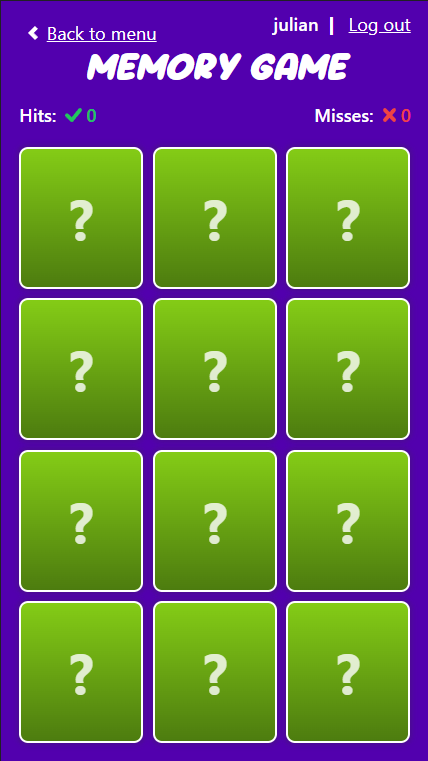
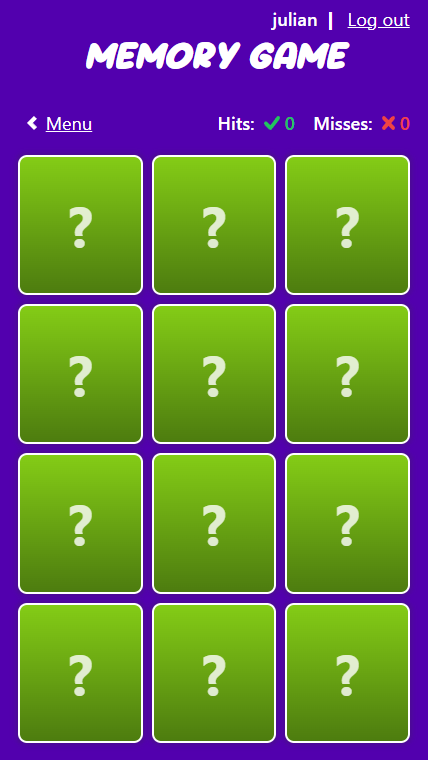
fix: Fixed navbar styles

diff --git a/src/components/game-board/GameBoard.tsx b/src/components/game-board/GameBoard.tsx
@@ -6,7 +6,6 @@ import { AnimalsResponse } from '../../models/apiAnimal';
 import { apiAnimalsToGameAnimals } from '../../adapters/apiAnimalsToGameAnimals';
 import { shuffleArray } from '../../utils/shuffleArray';
 import { DIFFICULTY } from '../../constants/gameDifficulty';
-import LeftArrowIcon from '../../shared/icons/LeftArrowIcon';
 import HitsCount from './components/HitsCount';
 import MissesCount from './components/MissesCount';
 import Countdown from '../../shared/display/countdown/Countdown';
@@ -15,6 +14,7 @@ import {
   ANIMALS_BY_DIFFICULTY,
   GAMEBOARD_GRID_BY_DIFFICULTY,
 } from './models/gameBoard.model';
+import LeftArrowIcon from '../../shared/icons/LeftArrowIcon';
 
 const COPY_UUID_SUFFIX = '-copy';
 
@@ -111,18 +111,20 @@ const GameBoard: FC<Props> = ({ difficulty, handleBackToMenu }) => {
   return (
     <>
       {win && <CongratulationsMessage handleGoToMenu={handleBackToMenu} />}
-      <button
-        type="button"
-        className="absolute flex items-center text-white font-sans top-2 left-4 underline p-2"
-        title="Back to difficulty menu"
-        onClick={handleBackToMenu}
-      >
-        <LeftArrowIcon className="h-3 mr-2 fill-white" />
-        Back to menu
-      </button>
-      <div className="flex flex-row justify-between mb-4 text-white font-semibold">
-        <HitsCount hits={hits} />
-        <MissesCount misses={misses} />
+      <div className="flex gap-4 items-center justify-between">
+        <button
+          type="button"
+          className="flex items-center text-white font-sans underline p-2"
+          title="Back to difficulty menu"
+          onClick={handleBackToMenu}
+        >
+          <LeftArrowIcon className="h-3 mr-2 fill-white" />
+          Menu
+        </button>
+        <div className="flex gap-4 text-white font-semibold">
+          <HitsCount hits={hits} />
+          <MissesCount misses={misses} />
+        </div>
       </div>
       <div className={gridClasses}>
         <Countdown />

diff --git a/src/components/Nav.tsx b/src/components/Nav.tsx
@@ -6,25 +6,25 @@ const Nav = () => {
 
   return (
     <nav>
-      <h1 className="text-center mt-6 mb-2">
-        <PuffyText className="text-4xl !text-white">Memory game</PuffyText>
-      </h1>
-      {name && (
-        <div className="absolute top-0 right-0 bottom-0 h-max ">
-          <p className="font-medium font-sans text-white px-2">
+      <div className="flex items-center px-2 justify-end">
+        {name && (
+          <p className="font-medium font-sans text-white">
             {name}
             <span className="font-black ml-2 mr-1 sm:ml-4 sm:mr-2">|</span>
             <button
               type="button"
               onClick={logout}
-              className="underline font-normal px-2 py-2 rounded hover:bg-white/10"
+              className="underline font-normal px-2 py-1 rounded hover:bg-white/10"
               title="Log out"
             >
               Log out
             </button>
           </p>
-        </div>
-      )}
+        )}
+      </div>
+      <h1 className="text-center">
+        <PuffyText className="text-4xl !text-white">Memory game</PuffyText>
+      </h1>
     </nav>
   );
 };

diff --git a/src/App.tsx b/src/App.tsx
@@ -5,9 +5,11 @@ import Nav from './components/Nav';
 const App = () => {
   return (
     <Providers>
-      <main className="relative h-screen p-4 grid grid-rows-[auto,_auto,_1fr] overflow-hidden max-w-5xl m-auto">
+      <main className="relative h-screen grid grid-rows-[auto,_1fr] overflow-hidden max-w-5xl m-auto">
         <Nav />
-        <Router />
+        <main className="grid grid-rows-[auto,_1fr] gap-2 p-4">
+          <Router />
+        </main>
       </main>
     </Providers>
   );

diff --git a/src/components/game-board/components/MissesCount.tsx b/src/components/game-board/components/MissesCount.tsx
@@ -6,7 +6,7 @@ interface Props {
 }
 
 const MissesCount: FC<Props> = ({ misses }) => {
-  const missesClasses = `sm:text-xl rounded flex items-center ${
+  const missesClasses = `rounded flex items-center ${
     misses > 0 ? 'shake-horizontal' : ''
   }`;
 

diff --git a/src/components/game-board/components/HitsCount.tsx b/src/components/game-board/components/HitsCount.tsx
@@ -6,7 +6,7 @@ interface Props {
 }
 
 const HitsCount: FC<Props> = ({ hits }) => {
-  const hitsClasses = `sm:text-xl rounded flex items-center ${
+  const hitsClasses = `rounded flex items-center ${
     hits > 0 ? 'jello-horizontal' : ''
   }`;
 

diff --git a/src/shared/display/countdown/countdown.scss b/src/shared/display/countdown/countdown.scss
@@ -31,7 +31,7 @@
     font-weight: bold;
     font-size: 2rem;
     position: absolute;
-    top: -3rem;
+    top: -5.5rem;
     left: 0;
     right: 0;
     text-align: center;
